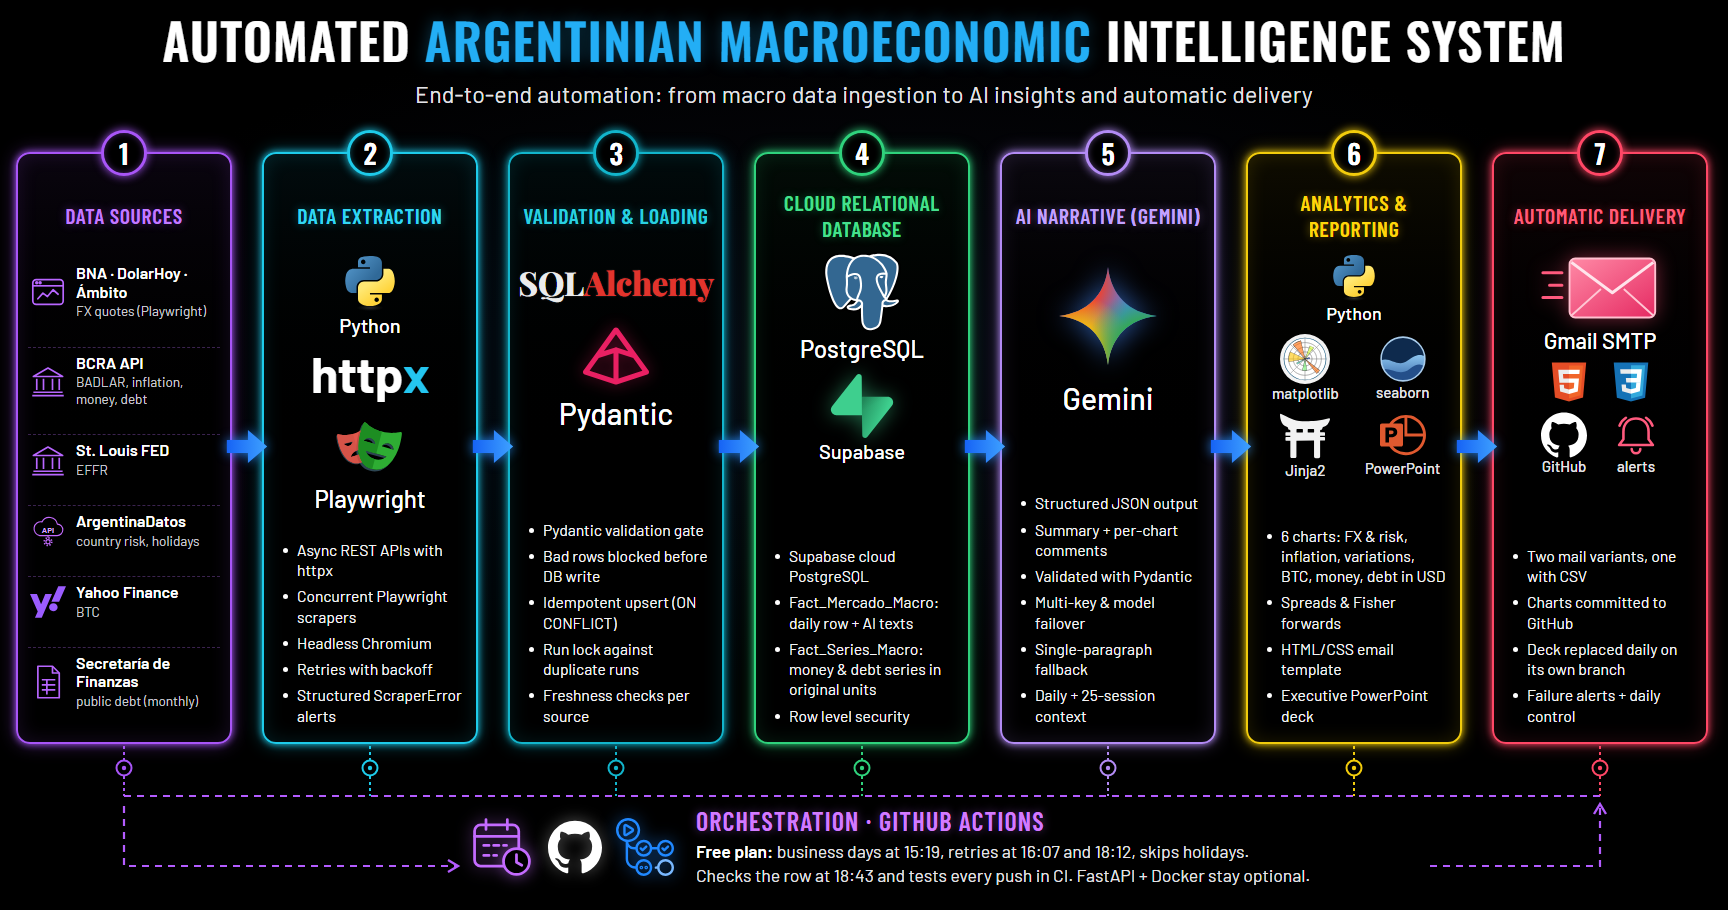
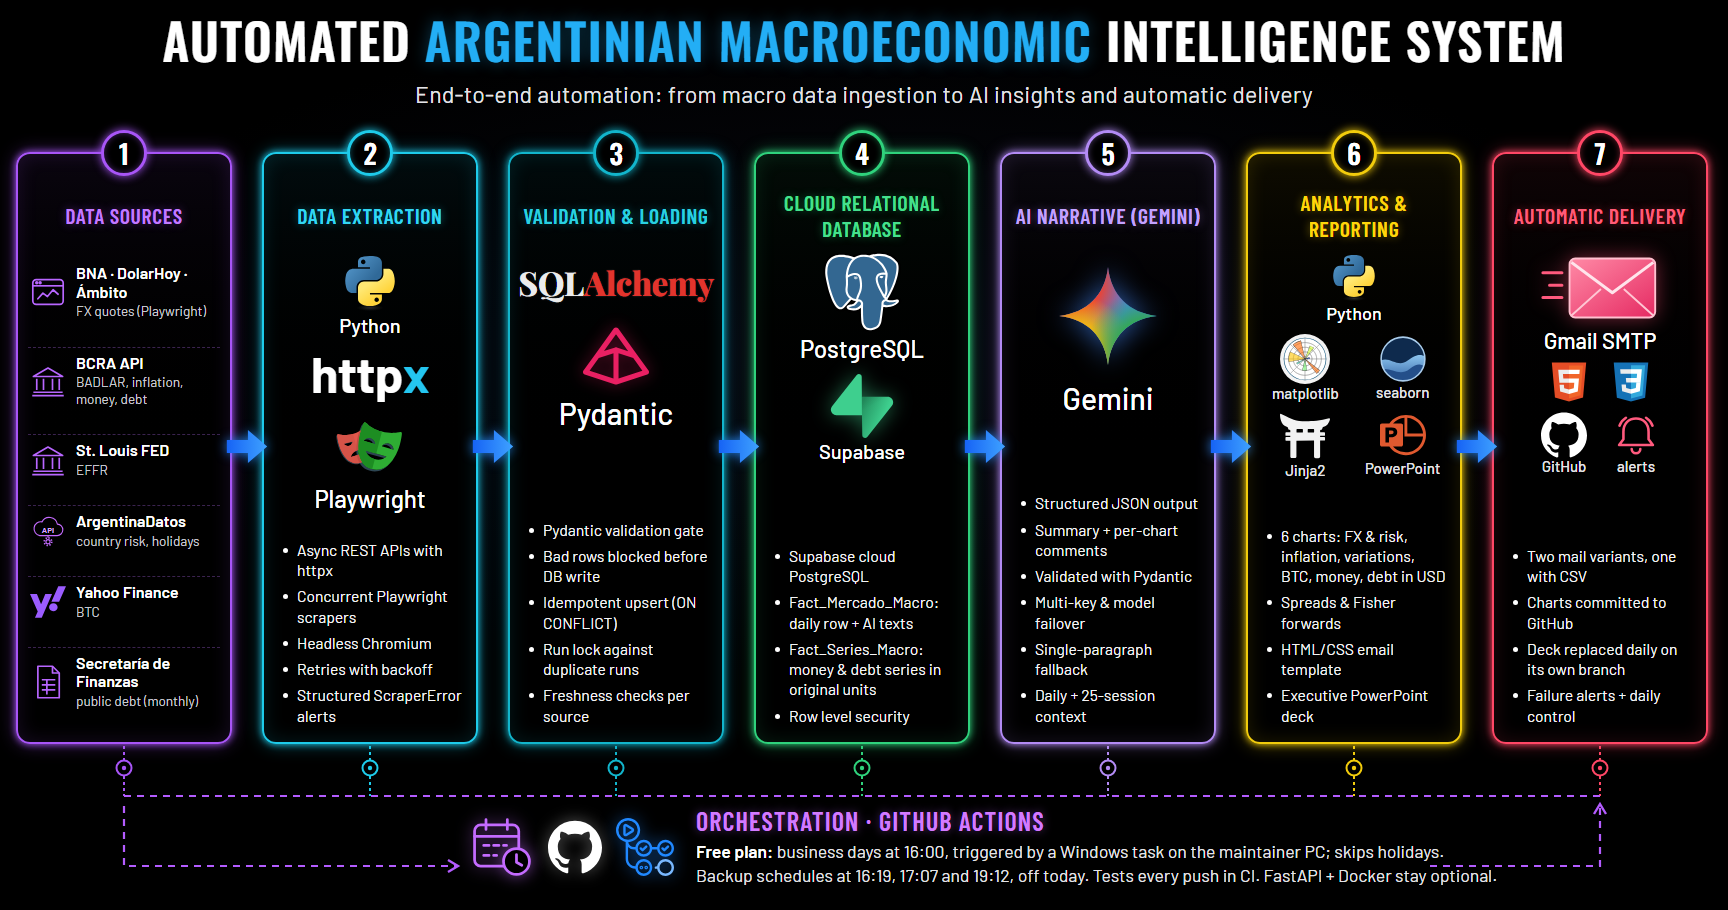
Trigger the daily run at 16:00 from the Windows task, and keep GitHub's backup schedules at 16:19, 17:07 and 19:12
The report has to go out at 16:00. A workflow_dispatch starts in seconds, so the Windows task runs at the round hour; the GitHub schedules, switched off today, go back to their non-round minutes as a backup. Docs and the architecture diagram follow.

Changed region(s): [[0.4062, 0.9231, 0.875, 0.9846]]

diff --git a/Assets/arquitectura/construir.py b/Assets/arquitectura/construir.py
@@ -372,8 +372,8 @@ def opcion_1() -> str:
         f'<div class="barra"><div class="iconos"><img src="{CALENDARIO}">'
         f'<img class="gh" src="{si("github", "#FFFFFF")}"><img class="gha" src="{dev("githubactions")}"></div>'
         '<div><div class="t1">Orchestration · GitHub Actions</div>'
-        '<div class="t2"><b>Free plan:</b> business days at 15:19, retries at 16:07 and 18:12, skips holidays.'
-        '<br>Checks the row at 18:43 and tests every push in CI. FastAPI + Docker stay optional.</div></div></div>'
+        '<div class="t2"><b>Free plan:</b> business days at 16:00, triggered by a Windows task on the maintainer PC; skips holidays.'
+        '<br>Backup schedules at 16:19, 17:07 and 19:12, off today. Tests every push in CI. FastAPI + Docker stay optional.</div></div></div>'
     )
 
     return (

diff --git a/AGENTS.md b/AGENTS.md
@@ -53,7 +53,7 @@ ruff check .
 
 The test suite loads fake credentials over any real `.env`, and fails any test that tries to open a real SMTP connection, make a real HTTP request, download from Yahoo or launch a browser, so it is always safe to run. It covers the transformations, charts, email assembly, the pipeline orchestration through fake dependencies, the idempotent insert, `preview_git` against temporary git repos, the Gemini failover, the API and the manual resend. `tests/test_html_golden.py` pins the mail's HTML byte for byte against `tests/datos/`: when a change to the HTML is intended, regenerate those files with `ACTUALIZAR_GOLDEN=1 pytest tests/test_html_golden.py` and commit the diff together with the change.
 
-**Scheduling and monitoring:** `.github/workflows/` holds the CI (lint, imports, tests; runs on push and PR) and two scheduled workflows: `corrida-diaria.yml` (the daily run at 15:19 in Argentina, Monday to Friday, with two retries at 16:07 and 18:12 that end as `omitida` when the day is already done) and `control-diario.yml` (fails when a business day has no row, 18:43, after the last retry; every schedule is on a non-round minute, because GitHub delays and drops schedules at the top of the hour). GitHub's free-plan schedules are best effort and proved hours late or skipped (2026-10-08 and 09), so the reliable trigger is `scripts/disparar_corrida.ps1`, run by the Windows Task Scheduler task "Reporte macro - disparar corrida" on the maintainer's PC at 15:19 on weekdays (it runs when the PC comes back on if it was off): it sends a `workflow_dispatch` in `real` mode through `gh`, which starts in seconds, and logs each trigger to `%LOCALAPPDATA%\reporte_macro\disparos.log`. The GitHub schedules are switched off since 2026-10-13 (`CORRIDA_AUTOMATICA` is `no`): on the holiday of 2026-10-12 they arrived six hours late and the last one crossed midnight, so it ran the 13th's report at 00:01 with the previous close's values. The scheduled runs now pass `--desde 14:00`, so a run that starts before 14:00 in Argentina ends as `omitida`; manual and Windows triggers have no such limit. Every extra trigger ends as `omitida`. The schedules only run when the repository variable `CORRIDA_AUTOMATICA` is `si` (Settings > Secrets and variables > Actions > Variables), so they are switched on and off without editing YAML and a merge cannot start them by surprise; manual dispatch always works, in dry-run by default. The setup steps, and the comparison with the Windows Task Scheduler, are in `docs/programacion-y-monitoreo.md`. Commits made by the workflow carry the repo owner's name and GitHub noreply address (or the address in the `EMAIL_COMMITS` variable), never a bot's. `python scripts/control_diario.py --sin-alerta` checks today's row without sending the alert email.
+**Scheduling and monitoring:** `.github/workflows/` holds the CI (lint, imports, tests; runs on push and PR) and two scheduled workflows: `corrida-diaria.yml` (the daily run at 16:19 in Argentina, Monday to Friday, with two retries at 17:07 and 19:12 that end as `omitida` when the day is already done) and `control-diario.yml` (fails when a business day has no row, 19:43, after the last retry; every schedule is on a non-round minute, because GitHub delays and drops schedules at the top of the hour). GitHub's free-plan schedules are best effort and proved hours late or skipped (2026-10-08 and 09), so the reliable trigger is `scripts/disparar_corrida.ps1`, run by the Windows Task Scheduler task "Reporte macro - disparar corrida" on the maintainer's PC at 16:00 on weekdays (it runs when the PC comes back on if it was off): it sends a `workflow_dispatch` in `real` mode through `gh`, which starts in seconds, and logs each trigger to `%LOCALAPPDATA%\reporte_macro\disparos.log`. The GitHub schedules are switched off since 2026-10-13 (`CORRIDA_AUTOMATICA` is `no`): on the holiday of 2026-10-12 they arrived six hours late and the last one crossed midnight, so it ran the 13th's report at 00:01 with the previous close's values. The scheduled runs now pass `--desde 14:00`, so a run that starts before 14:00 in Argentina ends as `omitida`; manual and Windows triggers have no such limit. Every extra trigger ends as `omitida`. The schedules only run when the repository variable `CORRIDA_AUTOMATICA` is `si` (Settings > Secrets and variables > Actions > Variables), so they are switched on and off without editing YAML and a merge cannot start them by surprise; manual dispatch always works, in dry-run by default. The setup steps, and the comparison with the Windows Task Scheduler, are in `docs/programacion-y-monitoreo.md`. Commits made by the workflow carry the repo owner's name and GitHub noreply address (or the address in the `EMAIL_COMMITS` variable), never a bot's. `python scripts/control_diario.py --sin-alerta` checks today's row without sending the alert email.
 
 **Resend today's report to one person:**
 ```bash
@@ -183,7 +183,7 @@ Three guardrails worth knowing: it aborts if the newest row has no `ai_paragraph
 - **Keep the `httpx` logger at WARNING or above.** It logs full request URLs at INFO, and the FRED request carries the API key in its query string.
 - **Logs can be public.** On GitHub Actions in this public repo, anyone can read a run's log. `pipeline.configurar_logging` installs a formatter that replaces every secret from `.env` with `***` and every recipient address with `[destinatario]`, tracebacks included, and `--json` output goes through the same `redactar()`. Keep new output inside `logging`, and never upload the mail preview or error details as workflow artifacts.
 - **Anything that can send mail is verified with the sending stubbed or disabled.** `pipeline.py --dry-run`, `scripts/reenvio_manual.py --dry-run`, `scripts/control_diario.py --sin-alerta`. A real run of the control before the day's run sends a real (false) alert.
-- **Retries are plain reruns, never `--forzar`.** A run that fails after inserting the row is not safe to repeat blindly: one of the two mail variants may already be out. The two scheduled retries (16:07 and 18:12) are safe only because they are plain runs: they skip a finished day and stop with an error, and its alert, on an unfinished one. Never add `--forzar` to a scheduled run or turn on GitHub's re-run of failed jobs; with the alert in hand, redo the day with `--forzar` or resend with `scripts/reenvio_manual.py`.
+- **Retries are plain reruns, never `--forzar`.** A run that fails after inserting the row is not safe to repeat blindly: one of the two mail variants may already be out. The two scheduled retries (17:07 and 19:12) are safe only because they are plain runs: they skip a finished day and stop with an error, and its alert, on an unfinished one. Never add `--forzar` to a scheduled run or turn on GitHub's re-run of failed jobs; with the alert in hand, redo the day with `--forzar` or resend with `scripts/reenvio_manual.py`.
 - **The run lock needs a session-mode connection.** `pg_try_advisory_lock` holds until the session ends or is reset. On a direct connection a killed run does not leave it behind, and behind a session-mode pooler neither, as long as the pooler resets the connection it gets back (`DISCARD ALL` releases advisory locks). Behind Supabase's pooler in transaction mode (port 6543) the lock and its release can land on different server connections and the lock would stay held; keep `SUPABASE_DB_URL` on the session pooler (port 5432). A direct connection also works from a PC, but not from GitHub Actions: Supabase's direct host is IPv6-only and GitHub's runners have no IPv6. If it ever stayed held, every run would end as `omitida` without writing the row, which is exactly what `scripts/control_diario.py` catches.
 - **The deck never goes into `main`.** `Previews/*.pptx` is ignored; the deck lives only on the `reporte-ejecutivo` branch, rebuilt as a single commit every day. Do not add it to the `Previews/` commit: every daily version would stay in the history.
 - **Debt is always shown in USD.** Stored values keep the source unit; the conversion with the A3500 rate of each date happens only for charts and texts.

diff --git a/README.md b/README.md
@@ -150,7 +150,7 @@ A dry run leaves the six charts, the executive deck, a browser preview and an `.
 2. Load the `.env` values as repository secrets: Settings > Secrets and variables > Actions.
 3. Run *Corrida diaria* by hand in `dry-run` mode, to check that the Argentine sites answer from GitHub's servers.
 4. Run it once in `real` mode.
-5. Create the repository variable `CORRIDA_AUTOMATICA` with the value `si`. From then on it runs Monday to Friday at 15:19 Argentina time, retries at 16:07 and 18:12 if that one did not go out, and the daily control at 18:43. Set it to `no` to pause. It is `no` today: GitHub's free-plan schedules arrived hours late and once crossed midnight, so the daily trigger comes from the maintainer's Windows Task Scheduler at 15:19 (`scripts/disparar_corrida.ps1`), and scheduled runs now stop before 14:00 Argentina time (`--desde`).
+5. Create the repository variable `CORRIDA_AUTOMATICA` with the value `si`. From then on it runs Monday to Friday at 16:19 Argentina time, retries at 17:07 and 19:12 if that one did not go out, and the daily control at 19:43. Set it to `no` to pause. It is `no` today: GitHub's free-plan schedules arrived hours late and once crossed midnight, so the daily trigger comes from the maintainer's Windows Task Scheduler at 16:00 (`scripts/disparar_corrida.ps1`), and scheduled runs now stop before 14:00 Argentina time (`--desde`).
 
 **Executive deck.** The latest deck is always at [`Reporte Ejecutivo.pptx`](https://github.com/mauroemartinez/RPA-exchange-rate-scrapping-automatic-mailing/raw/reporte-ejecutivo/Reporte%20Ejecutivo.pptx), on the `reporte-ejecutivo` branch. That branch is rebuilt as a single commit every day, so it never accumulates versions. `python scripts/presentacion_ejecutiva.py` builds the same deck by hand from the warehouse.
 
